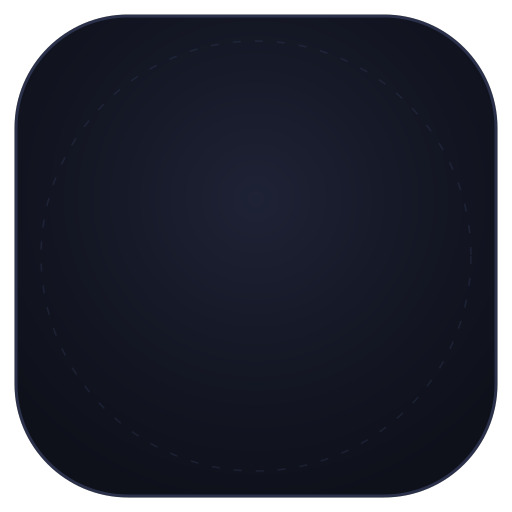
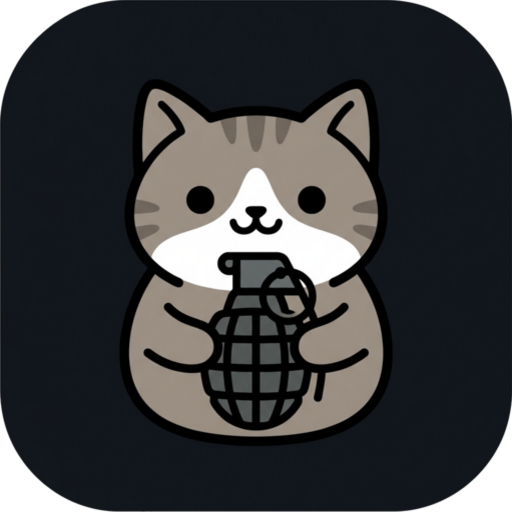
refactor: rename project to KittyFrag
Update application ID, package name, resource labels, and internal strings to reflect the rebranding to KittyFrag.

diff --git a/server.js b/server.js
@@ -888,26 +888,97 @@ function handleRequest(req, res) {
       background: var(--on-primary);
     }
 
-    /* Toast Notification */
-    .toast {
+    /* Material Design 3 Expressive & Material You Dynamic Floating Toast */
+    .mde3-toast-container {
       position: absolute;
-      bottom: 96px;
-      left: 50%;
-      transform: translateX(-50%) translateY(20px);
-      background: #272a2f;
-      color: #e1e2e8;
-      border: 1px solid #43474e;
-      padding: 8px 16px;
-      border-radius: 9999px;
-      font-size: 13px;
+      bottom: 92px;
+      left: 0;
+      right: 0;
+      display: flex;
+      justify-content: center;
+      pointer-events: none;
+      z-index: 120;
+      padding: 0 16px;
+    }
+    .mde3-toast {
+      display: inline-flex;
+      align-items: center;
+      gap: 12px;
+      max-width: 90%;
+      padding: 8px 16px 8px 10px;
+      background: var(--surface-container-high);
+      color: var(--on-surface);
+      border: 1px solid var(--outline-variant);
+      border-radius: 24px;
+      box-shadow: 0 10px 28px -4px rgba(0, 0, 0, 0.45), 0 3px 8px rgba(0, 0, 0, 0.2);
+      backdrop-filter: blur(16px);
+      -webkit-backdrop-filter: blur(16px);
+      transform: translateY(22px) scale(0.92);
       opacity: 0;
       pointer-events: none;
-      transition: all 0.25s;
-      z-index: 100;
+      transition: transform 0.32s cubic-bezier(0.34, 1.56, 0.64, 1),
+                  opacity 0.22s cubic-bezier(0.2, 0, 0, 1);
     }
-    .toast.show {
+    .mde3-toast.show {
       opacity: 1;
-      transform: translateX(-50%) translateY(0);
+      transform: translateY(0) scale(1);
+      pointer-events: auto;
+    }
+    .mde3-toast-icon-wrap {
+      width: 32px;
+      height: 32px;
+      border-radius: 16px;
+      display: flex;
+      align-items: center;
+      justify-content: center;
+      flex-shrink: 0;
+      background: var(--secondary-container);
+      color: var(--on-secondary-container);
+      transition: background 0.25s, color 0.25s;
+    }
+    .mde3-toast-icon-wrap.tone-success {
+      background: rgba(123, 213, 140, 0.22);
+      color: var(--color-success);
+    }
+    .mde3-toast-icon-wrap.tone-warn {
+      background: rgba(255, 213, 102, 0.22);
+      color: var(--color-warn);
+    }
+    .mde3-toast-icon-wrap.tone-error {
+      background: rgba(242, 184, 181, 0.22);
+      color: var(--color-error);
+    }
+    .mde3-toast-icon-wrap.tone-primary {
+      background: var(--secondary-container);
+      color: var(--on-secondary-container);
+    }
+    .mde3-toast-label {
+      font-size: 13.5px;
+      font-weight: 500;
+      letter-spacing: 0.01em;
+      line-height: 1.35;
+      color: var(--on-surface);
+      white-space: normal;
+      word-break: break-word;
+    }
+    .mde3-toast-action {
+      margin-left: 6px;
+      padding: 4px 12px;
+      background: var(--primary);
+      color: var(--on-primary);
+      border: none;
+      border-radius: 12px;
+      font-size: 12px;
+      font-weight: 600;
+      font-family: inherit;
+      cursor: pointer;
+      display: inline-flex;
+      align-items: center;
+      transition: opacity 0.15s, transform 0.1s;
+    }
+    .mde3-toast-action:hover {
+      opacity: 0.9;
+      transform: scale(1.03);
     }
   </style>
 </head>
@@ -934,8 +1005,8 @@ function handleRequest(req, res) {
 
     <!-- App Header with KittyFrag Icon and M3 Theme Toggle -->
     <div class="app-bar">
-      <div class="app-title-group" style="display:flex; flex-direction:row; align-items:center; gap:12px;">
-        <img src="/kittyfrag_icon.png" width="44" height="44" style="border-radius:12px; border:1px solid #2B314B; box-shadow:0 4px 12px rgba(0,0,0,0.5);" alt="KittyFrag">
+      <div class="app-title-group" style="display:flex; flex-direction:row; align-items:center; gap:10px;">
+        <img src="/kittyfrag_icon.png" width="30" height="30" style="border-radius:8px; border:1px solid #2B314B; box-shadow:0 2px 6px rgba(0,0,0,0.4);" alt="KittyFrag">
         <div style="display:flex; flex-direction:column;">
           <div class="app-title">KittyFrag</div>
           <div class="app-subtitle">Experimental Android root</div>
@@ -954,7 +1025,8 @@ function handleRequest(req, res) {
       <div class="page" id="pageHome">
         <div class="card">
           <div class="card-label">This Device</div>
-          <div class="mono-body">Brand: INFINIX
+          <div class="mono-body">Package: kitty.root
+Brand: INFINIX
 Model / device: Infinix X6885 / Infinix-X6885
 SoC: MT6789
 Android: 16 (API 36)
@@ -1047,14 +1119,14 @@ KMI: android16-6.12</div>
         </div>
 
         <div class="card">
-          <div class="card-label">DirtyFrag Helper Module</div>
-          <div style="font-size:14px; font-weight:600; margin-top:4px;">Selected DirtyFrag helper</div>
+          <div class="card-label">KittyFrag Helper Module</div>
+          <div style="font-size:14px; font-weight:600; margin-top:4px;">Selected KittyFrag helper</div>
           <div class="sub-note">Automatic mode shows the selected file. If no helper matches this kernel, build a DFRoot dirtyfrag.ko for its KMI and select that file here.</div>
           
           <!-- Sleek Selector Card opening Material 3 Dialog -->
           <div class="field-card" id="btnOpenKoDialog">
             <div>
-              <div class="field-card-title">Bundled DirtyFrag .ko</div>
+              <div class="field-card-title">Bundled KittyFrag .ko</div>
               <div class="field-card-val" id="koSelectedDisplay">dirtyfrag-android16-6.12.ko</div>
             </div>
             <svg width="24" height="24" viewBox="0 0 24 24" fill="var(--on-surface-variant)"><path d="M16.59 8.59L12 13.17 7.41 8.59 6 10l6 6 6-6z"/></svg>
@@ -1156,7 +1228,7 @@ KMI: android16-6.12</div>
     <!-- KO SELECTION DIALOG (Screenshot 3 styled selection pill + clean mismatch format) -->
     <div class="modal-overlay" id="modalKo">
       <div class="dialog-card">
-        <div class="dialog-title">Bundled DirtyFrag .ko</div>
+        <div class="dialog-title">Bundled KittyFrag .ko</div>
         <div class="dialog-subtitle">Choose module variant for this kernel</div>
         
         <div class="dialog-content-scroll" id="koOptionsList">
@@ -1203,8 +1275,16 @@ KMI: android16-6.12</div>
       </div>
     </div>
 
-    <!-- In-app Toast message -->
-    <div class="toast" id="toast">Log copied to clipboard</div>
+    <!-- MDE3 & Material You Dynamic Floating Toast (Interactive with Dynamic Theming & Contextual Icons) -->
+    <div class="mde3-toast-container">
+      <div class="mde3-toast" id="mde3Toast">
+        <div class="mde3-toast-icon-wrap tone-primary" id="mde3ToastIcon">
+          <svg width="18" height="18" viewBox="0 0 24 24" fill="currentColor"><path d="M12 2C6.48 2 2 6.48 2 12s4.48 10 10 10 10-4.48 10-10S17.52 2 12 2zm1 15h-2v-6h2v6zm0-8h-2V7h2v2z"/></svg>
+        </div>
+        <div class="mde3-toast-label" id="mde3ToastLabel">Toast message</div>
+        <button class="mde3-toast-action" id="mde3ToastAction" style="display:none;">Undo</button>
+      </div>
+    </div>
   </div>
 
   <script>
@@ -1215,8 +1295,10 @@ KMI: android16-6.12</div>
     const terminalContainer = document.getElementById('terminalContainer');
     const gutterView = document.getElementById('gutterView');
     const logBox = document.getElementById('logBox');
-    const btnLaunch = document.getElementById('btnLaunchRoot');
-    const toast = document.getElementById('toast');
+    const mde3Toast = document.getElementById('mde3Toast');
+    const mde3ToastIcon = document.getElementById('mde3ToastIcon');
+    const mde3ToastLabel = document.getElementById('mde3ToastLabel');
+    const mde3ToastAction = document.getElementById('mde3ToastAction');
     const btnToggleScrollLock = document.getElementById('btnToggleScrollLock');
     const scrollLockIcon = document.getElementById('scrollLockIcon');
     const statusProgress = document.getElementById('statusProgress');
@@ -1228,21 +1310,95 @@ KMI: android16-6.12</div>
     let isNavigating = false;
     let navTimeout = null;
 
-    function showToast(msg, onActionClick) {
-      toast.innerHTML = msg;
-      toast.classList.add('show');
-      if (onActionClick) {
-        toast.style.pointerEvents = 'auto';
-        toast.onclick = () => {
-          onActionClick();
-          toast.classList.remove('show');
-          toast.onclick = null;
+    let toastTimer = null;
+
+    const ICONS_MAP = {
+      copy: '<svg width="18" height="18" viewBox="0 0 24 24" fill="currentColor"><path d="M16 1H4c-1.1 0-2 .9-2 2v14h2V3h12V1zm3 4H8c-1.1 0-2 .9-2 2v14c0 1.1.9 2 2 2h11c1.1 0 2-.9 2-2V7c0-1.1-.9-2-2-2zm0 16H8V7h11v14z"/></svg>',
+      save: '<svg width="18" height="18" viewBox="0 0 24 24" fill="currentColor"><path d="M17 3H5c-1.11 0-2 .9-2 2v14c0 1.1.89 2 2 2h14c1.1 0 2-.9 2-2V7l-4-4zm-5 16c-1.66 0-3-1.34-3-3s1.34-3 3-3 3 1.34 3 3-1.34 3-3 3zm3-10H5V5h10v4z"/></svg>',
+      trash: '<svg width="18" height="18" viewBox="0 0 24 24" fill="currentColor"><path d="M16 9v10H8V9h8m-1.5-6h-5l-1 1H5v2h14V4h-3.5l-1-1zM18 7H6v12c0 1.1.9 2 2 2h8c1.1 0 2-.9 2-2V7z"/></svg>',
+      success: '<svg width="18" height="18" viewBox="0 0 24 24" fill="currentColor"><path d="M12 2C6.48 2 2 6.48 2 12s4.48 10 10 10 10-4.48 10-10S17.52 2 12 2zm-2 15l-5-5 1.41-1.41L10 14.17l7.59-7.59L19 8l-9 9z"/></svg>',
+      error: '<svg width="18" height="18" viewBox="0 0 24 24" fill="currentColor"><path d="M12 2C6.48 2 2 6.48 2 12s4.48 10 10 10 10-4.48 10-10S17.52 2 12 2zm1 15h-2v-2h2v2zm0-4h-2V7h2v6z"/></svg>',
+      warn: '<svg width="18" height="18" viewBox="0 0 24 24" fill="currentColor"><path d="M1 21h22L12 2 1 21zm12-3h-2v-2h2v2zm0-4h-2v-4h2v4z"/></svg>',
+      sun: '<svg width="18" height="18" viewBox="0 0 24 24" fill="currentColor"><path d="M12 7c-2.76 0-5 2.24-5 5s2.24 5 5 5 5-2.24 5-5-2.24-5-5-5zM2 13h2c.55 0 1-.45 1-1s-.45-1-1-1H2c-.55 0-1 .45-1 1s.45 1 1 1zm18 0h2c.55 0 1-.45 1-1s-.45-1-1-1h-2c-.55 0-1 .45-1 1s.45 1 1 1zM11 2v2c0 .55.45 1 1 1s1-.45 1-1V2c0-.55-.45-1-1-1s-1 .45-1 1zm0 18v2c0 .55.45 1 1 1s1-.45 1-1v-2c0-.55-.45-1-1-1s-1 .45-1 1zM5.99 4.58c-.39-.39-1.03-.39-1.41 0s-.39 1.03 0 1.41l1.06 1.06c.39.39 1.03.39 1.41 0s.39-1.03 0-1.41L5.99 4.58zm12.37 12.37c-.39-.39-1.03-.39-1.41 0s-.39 1.03 0 1.41l1.06 1.06c.39.39 1.03.39 1.41 0s.39-1.03 0-1.41l-1.06-1.06zm1.06-10.96c.39-.39.39-1.03 0-1.41s-1.03-.39-1.41 0l-1.06 1.06c-.39.39-.39 1.03 0 1.41s1.03.39 1.41 0l1.06-1.06zM7.05 18.36c.39-.39.39-1.03 0-1.41s-1.03-.39-1.41 0l-1.06 1.06c-.39.39-.39 1.03 0 1.41s1.03.39 1.41 0l1.06-1.06z"/></svg>',
+      moon: '<svg width="18" height="18" viewBox="0 0 24 24" fill="currentColor"><path d="M12 3c-4.97 0-9 4.03-9 9s4.03 9 9 9 9-4.03 9-9c0-.46-.04-.92-.1-1.36-.98 1.37-2.58 2.26-4.4 2.26-2.98 0-5.4-2.42-5.4-5.4 0-1.81.89-3.42 2.26-4.4C12.92 3.04 12.46 3 12 3z"/></svg>',
+      sparkle: '<svg width="18" height="18" viewBox="0 0 24 24" fill="currentColor"><path d="M19 9l1.25-2.75L23 5l-2.75-1.25L19 1l-1.25 2.75L15 5l2.75 1.25L19 9zm-7.5.5L9 4 6.5 9.5 1 12l5.5 2.5L9 20l2.5-5.5L17 12l-5.5-2.5zM19 15l-1.25 2.75L15 19l2.75 1.25L19 23l1.25-2.75L23 19l-2.75-1.25L19 15z"/></svg>',
+      chip: '<svg width="18" height="18" viewBox="0 0 24 24" fill="currentColor"><path d="M9 3H7c-1.1 0-2 .9-2 2v2H3v2h2v2H3v2h2v2H3v2h2v2c0 1.1.9 2 2 2h2v2h2v-2h2v2h2v-2h2c1.1 0 2-.9 2-2v-2h2v-2h-2v-2h2v-2h-2V7h2V5h-2V3h-2v2h-2V3h-2v2H9V3zm8 14H7V7h10v10z"/></svg>',
+      lock: '<svg width="18" height="18" viewBox="0 0 24 24" fill="currentColor"><path d="M18 8h-1V6c0-2.76-2.24-5-5-5S7 3.24 7 6v2H6c-1.1 0-2 .9-2 2v10c0 1.1.9 2 2 2h12c1.1 0 2-.9 2-2V10c0-1.1-.9-2-2-2zm-6 9c-1.1 0-2-.9-2-2s.9-2 2-2 2 .9 2 2-.9 2-2 2zm3.1-9H8.9V6c0-1.71 1.39-3.1 3.1-3.1 1.71 0 3.1 1.39 3.1 3.1v2z"/></svg>',
+      info: '<svg width="18" height="18" viewBox="0 0 24 24" fill="currentColor"><path d="M12 2C6.48 2 2 6.48 2 12s4.48 10 10 10 10-4.48 10-10S17.52 2 12 2zm1 15h-2v-6h2v6zm0-8h-2V7h2v2z"/></svg>'
+    };
+
+    function showToast(rawMsg, onActionClick) {
+      clearTimeout(toastTimer);
+      let text = String(rawMsg);
+      let actionLabel = null;
+      let actionCb = null;
+
+      if (typeof onActionClick === 'function') {
+        actionLabel = 'Undo';
+        actionCb = onActionClick;
+      }
+
+      const cleanText = text.replace(/<[^>]*>/g, '').replace(/·.*$/, '').trim();
+
+      let iconKey = 'info';
+      let tone = 'tone-primary';
+      const lower = cleanText.toLowerCase();
+
+      if (lower.includes('copy') || lower.includes('clipboard')) {
+        iconKey = 'copy';
+        tone = 'tone-primary';
+      } else if (lower.includes('save') || lower.includes('download')) {
+        iconKey = 'save';
+        tone = 'tone-primary';
+      } else if (lower.includes('clear') || lower.includes('empty')) {
+        iconKey = 'trash';
+        tone = 'tone-warn';
+      } else if (lower.includes('success') || lower.includes('restored') || lower.includes('completed')) {
+        iconKey = 'success';
+        tone = 'tone-success';
+      } else if (lower.includes('error') || lower.includes('failed') || lower.includes('different kernel') || lower.includes('invalid')) {
+        iconKey = 'error';
+        tone = 'tone-error';
+      } else if (lower.includes('warn') || lower.includes('warning') || lower.includes('not verified')) {
+        iconKey = 'warn';
+        tone = 'tone-warn';
+      } else if (lower.includes('amoled')) {
+        iconKey = 'sparkle';
+        tone = 'tone-primary';
+      } else if (lower.includes('dark theme')) {
+        iconKey = 'moon';
+        tone = 'tone-primary';
+      } else if (lower.includes('light theme')) {
+        iconKey = 'sun';
+        tone = 'tone-warn';
+      } else if (lower.includes('lock')) {
+        iconKey = 'lock';
+        tone = 'tone-primary';
+      } else if (lower.includes('helper') || lower.includes('.ko') || lower.includes('target') || lower.includes('profile')) {
+        iconKey = 'chip';
+        tone = 'tone-primary';
+      }
+
+      mde3ToastIcon.className = 'mde3-toast-icon-wrap ' + tone;
+      mde3ToastIcon.innerHTML = ICONS_MAP[iconKey] || ICONS_MAP.info;
+      mde3ToastLabel.textContent = cleanText;
+
+      if (actionLabel && actionCb) {
+        mde3ToastAction.textContent = actionLabel;
+        mde3ToastAction.style.display = 'inline-flex';
+        mde3ToastAction.onclick = () => {
+          actionCb();
+          mde3Toast.classList.remove('show');
         };
       } else {
-        toast.style.pointerEvents = 'none';
-        toast.onclick = null;
+        mde3ToastAction.style.display = 'none';
+        mde3ToastAction.onclick = null;
       }
-      setTimeout(() => toast.classList.remove('show'), 2800);
+
+      mde3Toast.classList.add('show');
+      toastTimer = setTimeout(() => {
+        mde3Toast.classList.remove('show');
+      }, 3400);
     }
 
     // Glitch-Free Fluid Tab Navigation
@@ -1478,9 +1634,9 @@ KMI: android16-6.12</div>
       const blob = new Blob([text], { type: 'text/plain' });
       const a = document.createElement('a');
       a.href = URL.createObjectURL(blob);
-      a.download = 'dirtyfrag-log.txt';
+      a.download = 'kittyfrag-log.txt';
       a.click();
-      showToast('Saved dirtyfrag-log.txt');
+      showToast('Saved kittyfrag-log.txt');
     }
 
     function handleClearLogs() {

diff --git a/app/src/main/java/df/root/MainActivity.java b/app/src/main/java/df/root/MainActivity.java
@@ -621,7 +621,7 @@ public class MainActivity extends AppCompatActivity implements IReporter {
         Intent intent = new Intent(Intent.ACTION_CREATE_DOCUMENT);
         intent.addCategory(Intent.CATEGORY_OPENABLE);
         intent.setType("text/plain");
-        intent.putExtra(Intent.EXTRA_TITLE, "dirtyfrag-log.txt");
+        intent.putExtra(Intent.EXTRA_TITLE, "kittyfrag-log.txt");
         try {
             startActivityForResult(intent, REQUEST_SAVE_LOG);
         } catch (Exception e) {
@@ -629,7 +629,7 @@ public class MainActivity extends AppCompatActivity implements IReporter {
             try {
                 File logDir = getExternalFilesDir(null);
                 if (logDir == null) logDir = getFilesDir();
-                File logFile = new File(logDir, "dirtyfrag-log.txt");
+                File logFile = new File(logDir, "kittyfrag-log.txt");
                 try (FileOutputStream fos = new FileOutputStream(logFile)) {
                     fos.write(text.toString().getBytes(StandardCharsets.UTF_8));
                 }
@@ -880,7 +880,7 @@ public class MainActivity extends AppCompatActivity implements IReporter {
         getSharedPreferences("dfroot", MODE_PRIVATE).edit()
                 .remove("custom_ko_label").putString(PREF_SELECTED_KO, AUTO_KO).apply();
         updateKoMode();
-        report("using bundled DirtyFrag module selected by KMI (default)\n");
+        report("using bundled KittyFrag module selected by KMI (default)\n");
     }
 
     private void onKoSelection(int position) {
